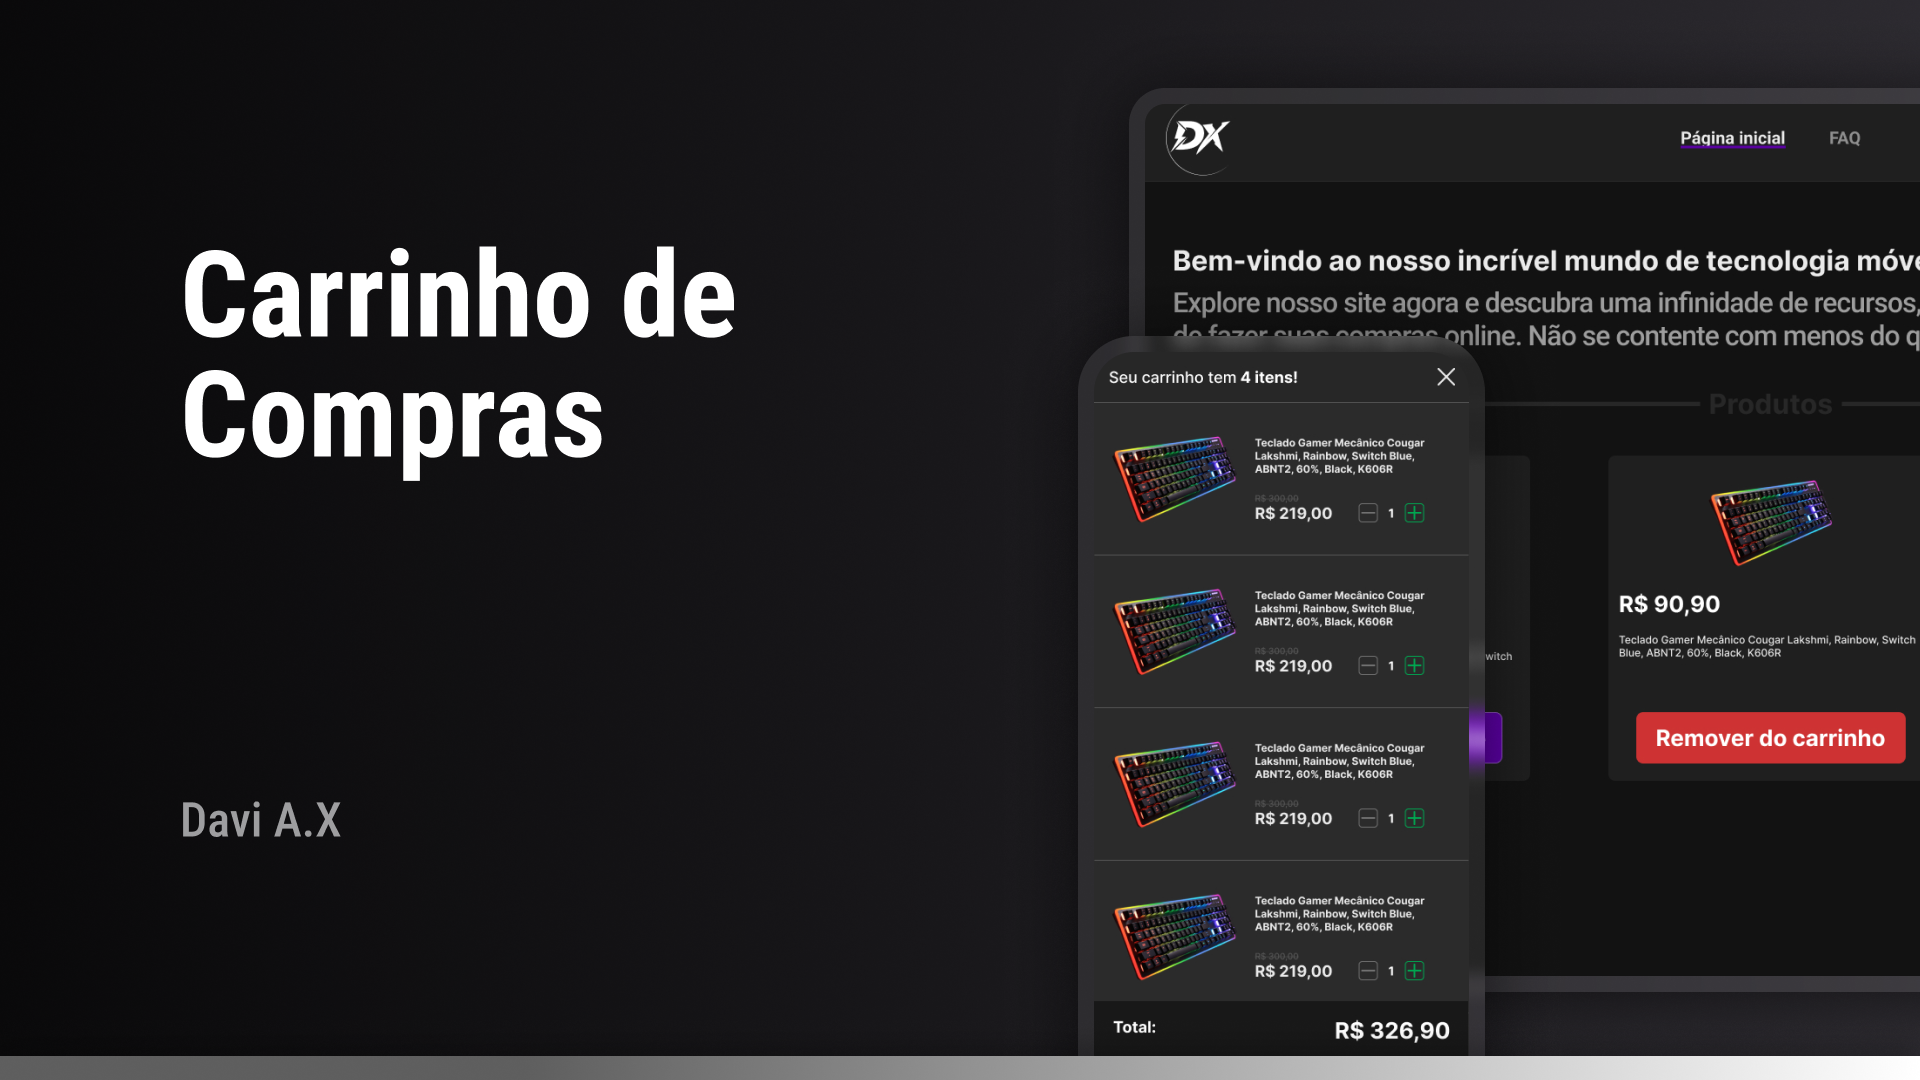
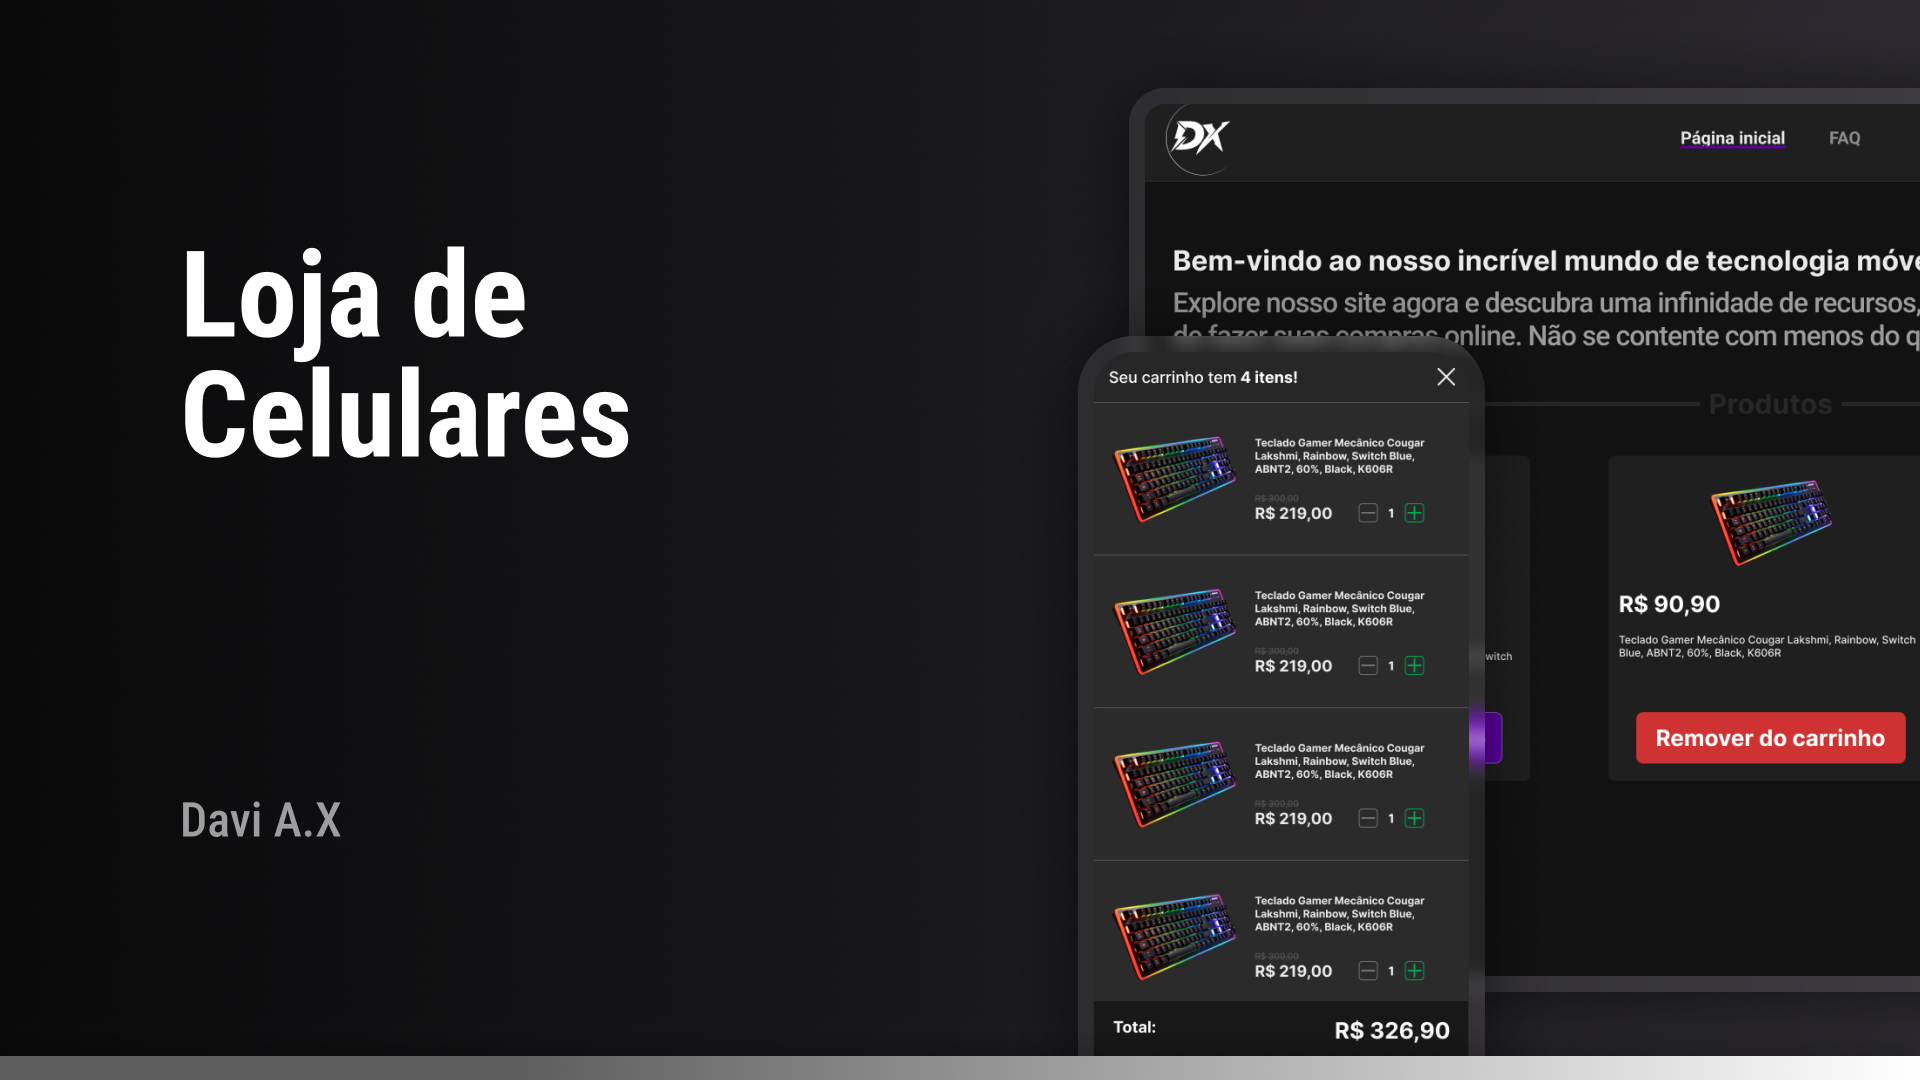
Added readme

Changed region(s): [[0.0938, 0.2139, 0.4062, 0.4583]]

diff --git a/README.md b/README.md
@@ -1,0 +1,39 @@
+<p align="center">
+  <a href="#-tecnologias">Tecnologias</a>&nbsp;&nbsp;&nbsp;|&nbsp;&nbsp;&nbsp;
+  <a href="#-projeto">Projeto</a>&nbsp;&nbsp;&nbsp;|&nbsp;&nbsp;&nbsp;
+  <a href="#-layout">Layout</a>&nbsp;&nbsp;&nbsp;|&nbsp;&nbsp;&nbsp;
+</p>
+
+<p align="center">
+ <img src="./src/shared/assets/thumbnail.png" alt="Me pewview!" />
+
+  <img alt="License" src="https://img.shields.io/static/v1?label=license&message=MIT&color=15C3D6&labelColor=000000">
+</p>
+
+<br>
+
+## 🚀 Tecnologias
+
+Esse projeto foi desenvolvido com as seguintes tecnologias:
+
+- [ReactJS]
+- [Typescript]
+- [Styled components]
+- [Git e Github]
+- [Figma]
+
+## 💻 Projeto
+
+Este site de comércio eletrônico foi desenvolvido como um projeto pessoal, com o objetivo de oferecer uma experiência única de compra de celulares.
+
+>  (Este site tem finalidade meramente ilustrativa e informativa. Por favor, esteja ciente de que não é possível realizar compras ou transações financeiras através desta plataforma. Ele foi criado com o propósito de demonstrar um exemplo de um site de comércio eletrônico e apresentar informações sobre produtos relacionados a celulares. Para adquirir produtos reais, por favor, visite lojas online confiáveis e autorizadas.).
+
+## 🔖 Layout
+
+Nos links abaixo você encontra o layout do projeto. Lembrando que você precisa ter uma conta no [Figma](http://figma.com/) para acessá-lo.
+
+- [Layout](https://www.figma.com/file/ShHJudkl0TrSRZRnom0uta/Carrinho-de-compras?type=design&node-id=0%3A1&mode=design&t=TZ9rA1qUCHfZm0R4-1)
+
+---
+
+Feito por Davi Alves :wave:
